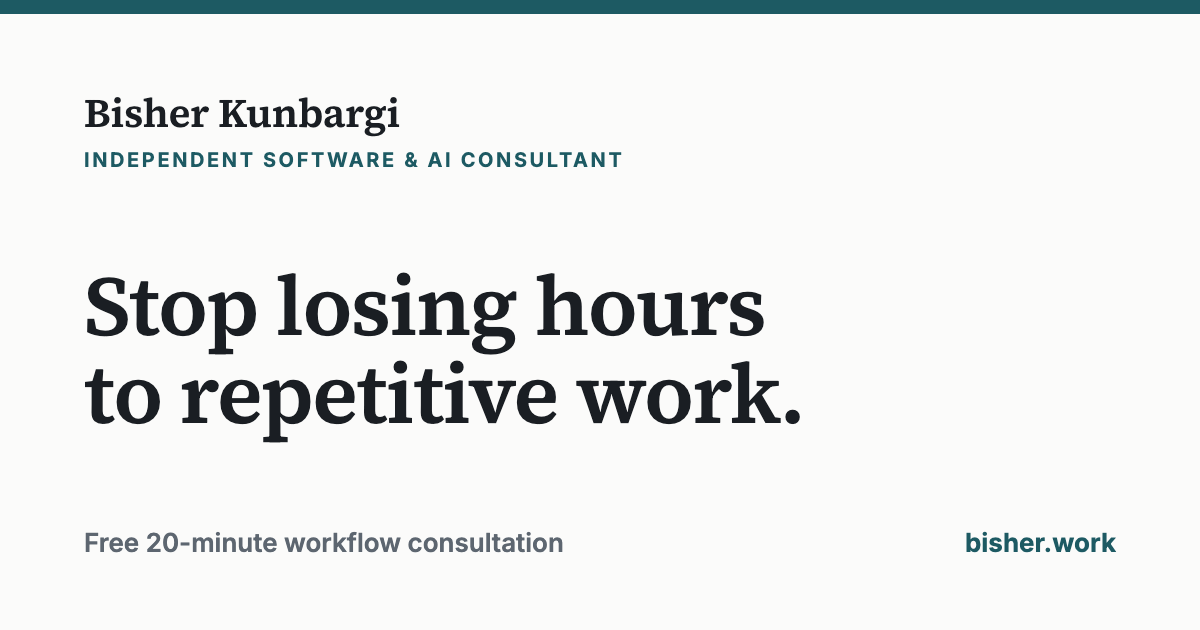
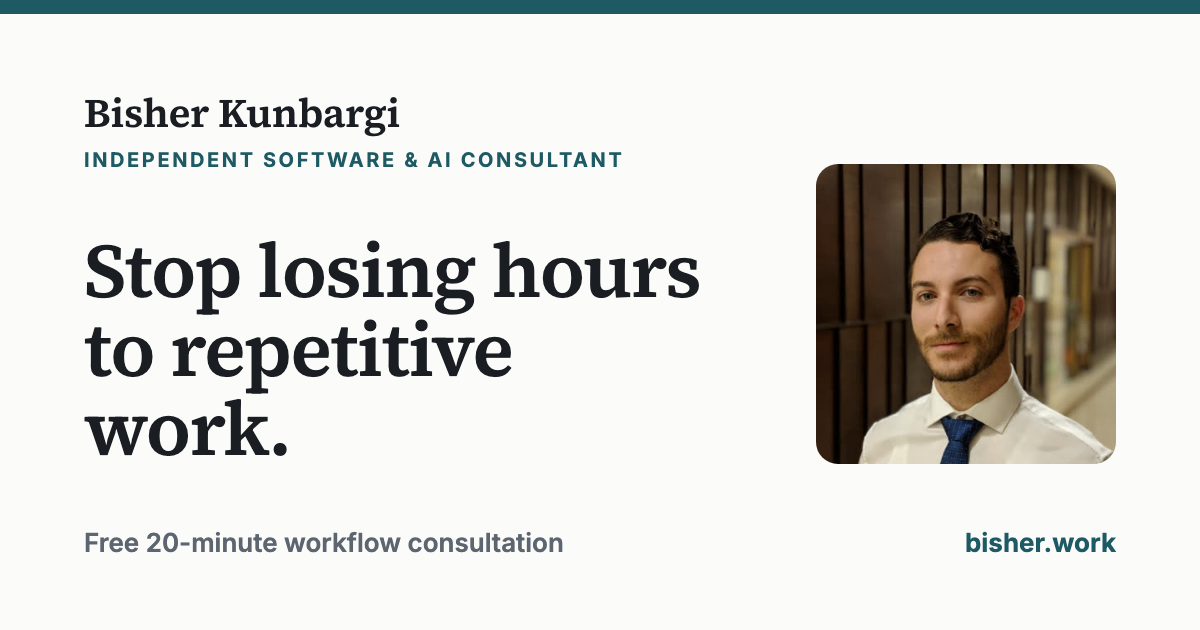
Add photo, example workflows (today vs after), photo in share image and booking page

Changed region(s): [[0.0617, 0.2413, 0.9558, 0.754]]

diff --git a/index.html b/index.html
@@ -24,12 +24,12 @@
   "@type": "ProfessionalService",
   "name": "Bisher Kunbargi, Independent Software & AI Consultant",
   "url": "https://bisher.work/",
-  "image": "https://bisher.work/og.png",
+  "image": "https://bisher.work/bisher.jpg",
   "telephone": "+1-949-529-8692",
   "email": "hello@bisher.work",
   "address": { "@type": "PostalAddress", "addressLocality": "Mission Viejo", "addressRegion": "CA", "addressCountry": "US" },
   "areaServed": "Orange County, CA",
-  "founder": { "@type": "Person", "name": "Bisher Kunbargi", "sameAs": ["https://www.linkedin.com/in/bisherk"] },
+  "founder": { "@type": "Person", "name": "Bisher Kunbargi", "image": "https://bisher.work/bisher.jpg", "sameAs": ["https://www.linkedin.com/in/bisherk"] },
   "sameAs": ["https://www.linkedin.com/in/bisherk"],
   "makesOffer": { "@type": "Offer", "name": "Free 20-minute workflow consultation", "price": "0", "priceCurrency": "USD", "url": "https://bisher.work/book/" }
 }
@@ -43,10 +43,18 @@
 
 <main class="wrap">
   <section class="hero">
-    <h1>Stop losing hours to repetitive work.</h1>
-    <p class="lede">I help local businesses automate repetitive tasks, connect the software they already use, and build custom tools that save time.</p>
-    <div class="actions"><a class="btn" href="https://calendly.com/bkunbargi/new-meeting">Book a free 20-minute consultation</a></div>
-    <p class="aside">Free, no obligation. Or call or text <a href="tel:+19495298692">(949) 529-8692</a>.</p>
+    <div class="hero-grid">
+      <div>
+        <h1>Stop losing hours to repetitive work.</h1>
+        <p class="lede">I help local businesses automate repetitive tasks, connect the software they already use, and build custom tools that save time.</p>
+        <div class="actions"><a class="btn" href="https://calendly.com/bkunbargi/new-meeting">Book a free 20-minute consultation</a></div>
+        <p class="aside">Free, no obligation. Or call or text <a href="tel:+19495298692">(949) 529-8692</a>.</p>
+      </div>
+      <figure class="me">
+        <img src="/bisher.jpg" width="360" height="360" alt="Bisher Kunbargi">
+        <figcaption><b>Bisher Kunbargi</b><span>Software engineer, 7+ years</span><span>Mission Viejo, CA</span></figcaption>
+      </figure>
+    </div>
   </section>
 
   <section>
@@ -57,6 +65,58 @@
       <li>Follow-ups that rely on memory</li>
       <li>Weekly reports pieced together by hand</li>
     </ul>
+  </section>
+
+  <section>
+    <h2>What this looks like</h2>
+    <p class="note">Three examples of the kind of work I do. They’re illustrations, not client stories.</p>
+    <div class="examples">
+      <article class="ex">
+        <h3>Quote follow-ups</h3>
+        <p class="for">Contractors, glass and sign shops, fabricators</p>
+        <div class="lanes">
+          <div class="lane today"><div class="lane-label">Today</div><ol>
+            <li>A quote goes out by email</li>
+            <li>Following up depends on someone remembering</li>
+            <li>Quotes go quiet and nobody notices</li></ol></div>
+          <div class="lane after"><div class="lane-label">After</div><ol>
+            <li>Every quote sent is logged automatically</li>
+            <li>Polite follow-ups go out on day 3 and day 7</li>
+            <li>One list shows every open quote</li></ol></div>
+        </div>
+        <p class="tools">Built on: Gmail or Outlook, QuickBooks or a spreadsheet</p>
+      </article>
+      <article class="ex">
+        <h3>Purchase orders into QuickBooks</h3>
+        <p class="for">Manufacturers, labs, distributors</p>
+        <div class="lanes">
+          <div class="lane today"><div class="lane-label">Today</div><ol>
+            <li>A PO arrives as a PDF attachment</li>
+            <li>Someone retypes it into QuickBooks and the order sheet</li>
+            <li>Typos surface at invoicing time</li></ol></div>
+          <div class="lane after"><div class="lane-label">After</div><ol>
+            <li>The PDF is read automatically</li>
+            <li>A draft order appears in QuickBooks and the sheet</li>
+            <li>A person approves anything unusual</li></ol></div>
+        </div>
+        <p class="tools">Built on: your email, QuickBooks, Google Sheets or Excel</p>
+      </article>
+      <article class="ex">
+        <h3>The weekly numbers</h3>
+        <p class="for">Owners and office managers</p>
+        <div class="lanes">
+          <div class="lane today"><div class="lane-label">Today</div><ol>
+            <li>Friday afternoon: pull numbers from three systems</li>
+            <li>Copy and paste them into a spreadsheet</li>
+            <li>Email it around, and do it again next week</li></ol></div>
+          <div class="lane after"><div class="lane-label">After</div><ol>
+            <li>The numbers are pulled automatically overnight</li>
+            <li>A one-page summary lands in your inbox Monday morning</li>
+            <li>The same figures every week, no copy and paste</li></ol></div>
+        </div>
+        <p class="tools">Built on: QuickBooks, your job or CRM software, email</p>
+      </article>
+    </div>
   </section>
 
   <section>
@@ -89,11 +149,9 @@
   <section>
     <h2>Who you’ll be working with</h2>
     <div class="about">
-      <div>
-        <p>I’m Bisher Kunbargi, a software engineer based in Mission Viejo with over seven years of experience. I’ve worked as a principal engineer, as a founding engineer at an AI startup, and as a software engineer at Accenture Federal Services. I studied economics and computer science at UC Irvine.</p>
-        <p>I work directly with each business: the person you meet is the one who designs and builds what you get.</p>
-        <p><a href="https://www.linkedin.com/in/bisherk">My LinkedIn profile</a></p>
-      </div>
+      <p>I’m Bisher Kunbargi, a software engineer based in Mission Viejo with over seven years of experience. I’ve worked as a principal engineer, as a founding engineer at an AI startup, and as a software engineer at Accenture Federal Services. I studied economics and computer science at UC Irvine.</p>
+      <p>I work directly with each business: the person you meet is the one who designs and builds what you get.</p>
+      <p><a href="https://www.linkedin.com/in/bisherk">My LinkedIn profile</a></p>
     </div>
   </section>
 
@@ -102,7 +160,7 @@
       <div class="eyebrow">No-obligation offer</div>
       <h2>Free 20-minute workflow consultation</h2>
       <p>You walk me through how work gets done today. I’ll look for what could be connected, sped up or automated, and tell you honestly where it isn’t worth it.</p>
-      <p>Afterwards you get a one-page summary to keep: what could be connected, sped up or automated, and what isn’t worth doing. It’s yours whether or not we work together.</p>
+      <p>Afterwards you get a one-page summary to keep, with the easiest wins first. It’s yours whether or not we work together.</p>
       <p class="fine">No cost, no obligation. In person, by phone, or video.</p>
       <div class="actions"><a class="btn" href="https://calendly.com/bkunbargi/new-meeting">Pick a time</a></div>
     </div>
@@ -119,7 +177,7 @@
 
 <footer class="site"><div class="wrap">
   <span>Mission Viejo, California · Serving Orange County</span>
-  <span>© 2026 Bisher Kunbargi</span>
+  <span><a href="https://www.linkedin.com/in/bisherk">LinkedIn</a> · © 2026 Bisher Kunbargi</span>
 </div></footer>
 </body>
 </html>

diff --git a/style.css b/style.css
@@ -74,7 +74,7 @@ ol.steps p { font-size: 15.5px; color: var(--muted); margin-top: 3px; }
 ol.steps.plain li p { color: var(--ink); font-size: 16.5px; margin-top: 3px; }
 
 /* about */
-.about { display: grid; grid-template-columns: 1fr; gap: 18px; }
+.about { max-width: 36em; }
 .about.has-photo { grid-template-columns: 96px 1fr; align-items: start; }
 .about img { width: 96px; height: 96px; border-radius: 50%; object-fit: cover; }
 .about p + p { margin-top: 10px; }
@@ -92,6 +92,46 @@ ol.steps.plain li p { color: var(--ink); font-size: 16.5px; margin-top: 3px; }
 .row:hover { border-color: var(--accent); }
 .row span { color: var(--muted); font-size: 15px; }
 .row b { font-weight: 600; color: var(--accent); overflow-wrap: anywhere; text-align: right; }
+
+/* hero with photo */
+.hero-grid { display: grid; gap: 22px; }
+.me { margin: 0; display: flex; align-items: center; gap: 14px; }
+.me img { width: 64px; height: 64px; border-radius: 50%; object-fit: cover; flex: none; }
+.me figcaption { display: flex; flex-direction: column; font-size: 15px; line-height: 1.35; }
+.me figcaption b { color: var(--ink); font-weight: 600; }
+.me figcaption span { color: var(--muted); }
+@media (max-width: 679px) { .hero-grid .me { order: -1; } }
+@media (min-width: 680px) {
+  .hero-grid { grid-template-columns: 1fr 200px; gap: 40px; align-items: center; }
+  .me { flex-direction: column; align-items: flex-start; gap: 12px; }
+  .me img { width: 200px; height: 200px; border-radius: 14px; }
+}
+
+/* example workflows */
+.note { color: var(--muted); font-size: 15.5px; margin: -6px 0 18px; }
+.examples { display: grid; gap: 16px; }
+.ex { background: var(--surface); border: 1px solid var(--rule); border-radius: 12px; padding: 20px 20px 16px; }
+.ex .for { color: var(--muted); font-size: 14.5px; margin-top: 2px; }
+.lanes { display: grid; gap: 12px; margin-top: 14px; }
+@media (min-width: 620px) { .lanes { grid-template-columns: 1fr 1fr; gap: 14px; } }
+.lane { border-radius: 9px; padding: 12px 14px 12px; }
+.lane.today { background: #f4f5f6; border: 1px dashed #c9cfd4; }
+.lane.after { background: var(--tint); border: 1px solid var(--rule-strong); }
+.lane-label { font-size: 12px; font-weight: 700; letter-spacing: .12em; text-transform: uppercase; margin-bottom: 8px; }
+.lane.today .lane-label { color: var(--muted); }
+.lane.after .lane-label { color: var(--accent); }
+.lane ol { list-style: none; display: grid; gap: 0; }
+.lane li { position: relative; padding: 0 0 10px 20px; font-size: 15px; line-height: 1.4; }
+.lane li:last-child { padding-bottom: 0; }
+.lane li::before { content: ""; position: absolute; left: 2px; top: .45em; width: 8px; height: 8px; border-radius: 50%; }
+.lane li:not(:last-child)::after { content: ""; position: absolute; left: 5.25px; top: calc(.45em + 10px); bottom: 2px; width: 1.5px; }
+.lane.today li { color: var(--body); }
+.lane.today li::before { border: 1.5px solid #9aa3ab; background: #f4f5f6; }
+.lane.today li::after { background: #c9cfd4; }
+.lane.after li { color: var(--ink); }
+.lane.after li::before { background: var(--accent); }
+.lane.after li::after { background: #9cc3c7; }
+.ex .tools { font-size: 14px; color: var(--muted); margin-top: 12px; }
 
 /* booking page person line */
 .person { display: flex; gap: 14px; align-items: center; margin-top: 18px; padding: 14px 16px; background: var(--surface);

diff --git a/book/index.html b/book/index.html
@@ -35,6 +35,7 @@
     <div class="eyebrow">Free · 20 minutes · No obligation</div>
     <h1>Book your free <span style="white-space:nowrap">20-minute</span> workflow consultation</h1>
     <div class="person">
+      <img src="/bisher-sm.jpg" width="112" height="112" alt="">
       <div>You’ll be talking with <b>Bisher Kunbargi</b>, the engineer who would do the work. If I stopped by your business with a flyer, that was me.</div>
     </div>
     <p class="lede">Pick a time on my calendar. In person at your business, by phone, or video.</p>
